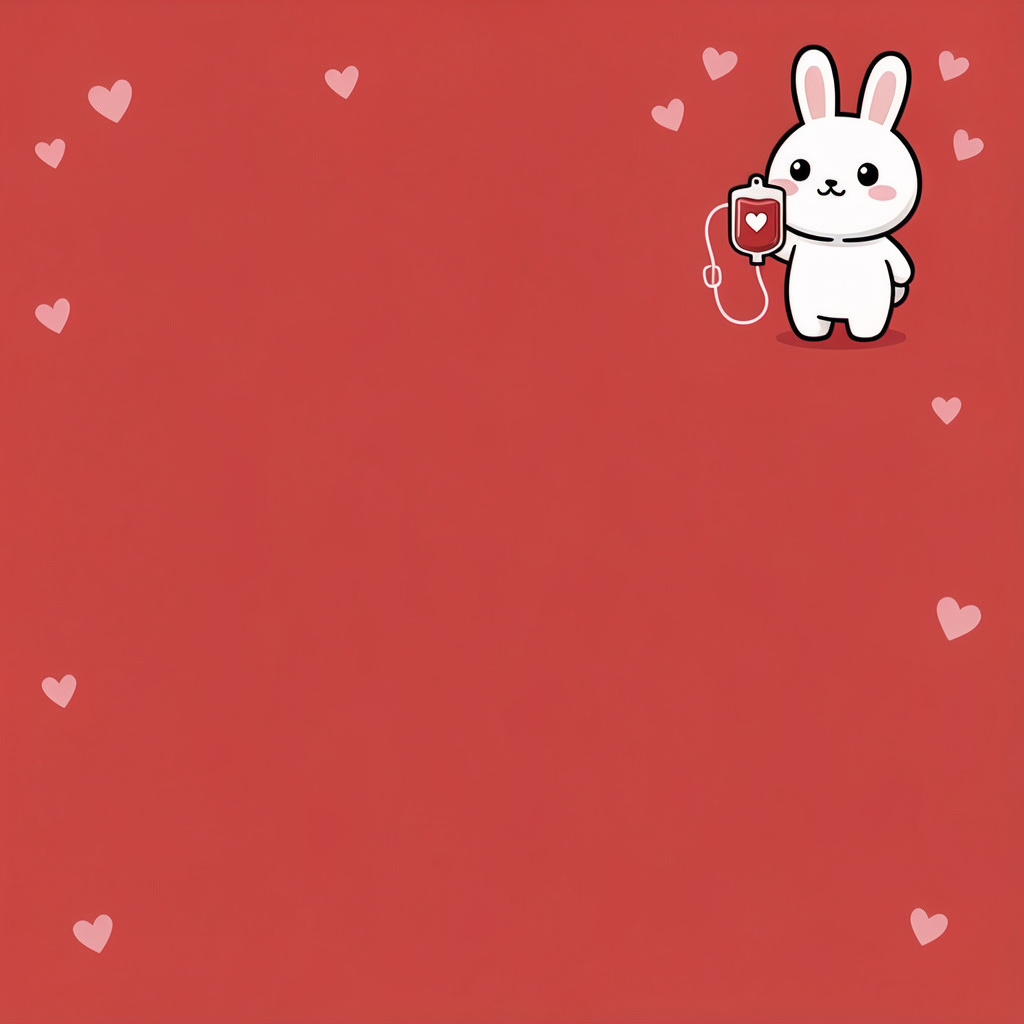
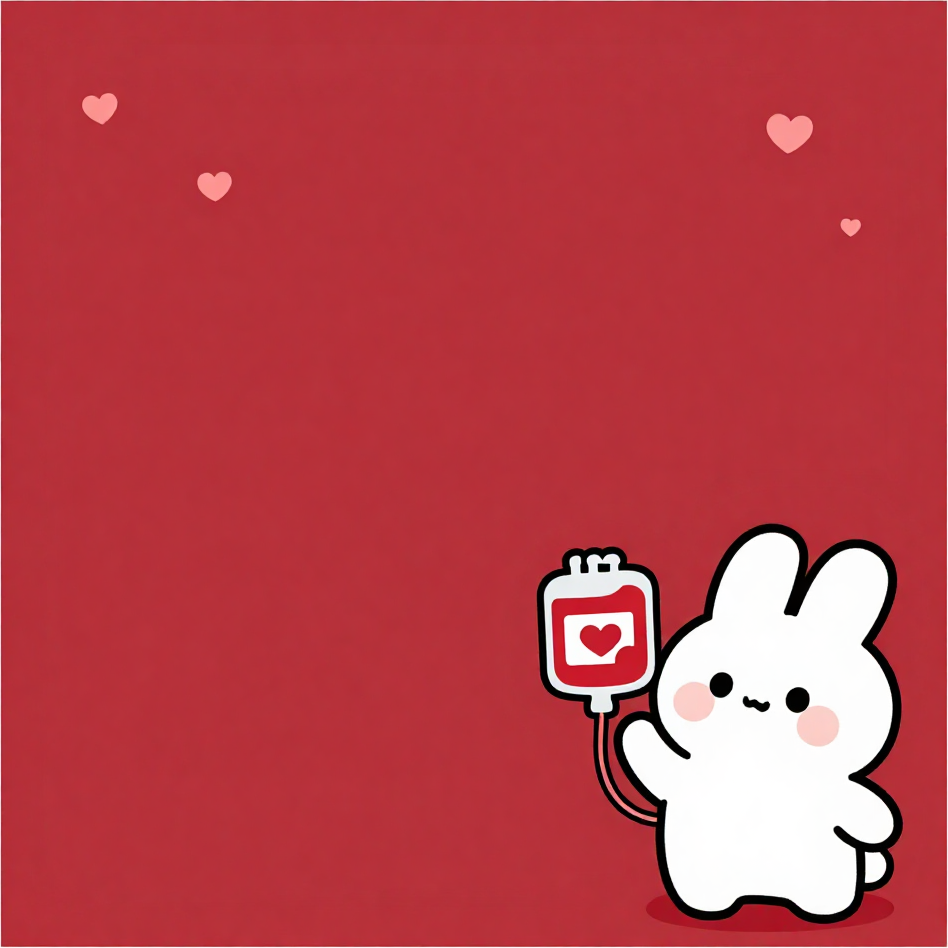
flyer: new bg — rabbit moved to bottom-right (fills previously empty area), trimmed white border, retuned crop position

diff --git a/src/App.css b/src/App.css
@@ -3638,7 +3638,7 @@ th {
   height: 297mm;
   background-color: #ce0017;
   background-size: cover;
-  background-position: 65% center;
+  background-position: 88% center;
   background-repeat: no-repeat;
   box-shadow: 0 16px 56px rgba(0, 0, 0, 0.32);
   display: flex;